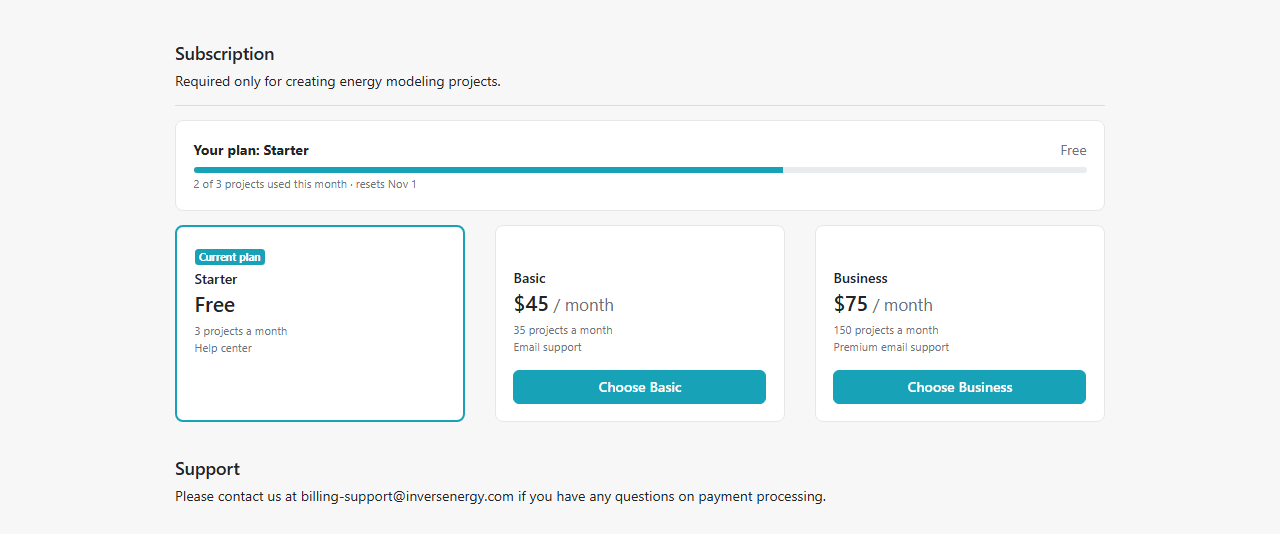
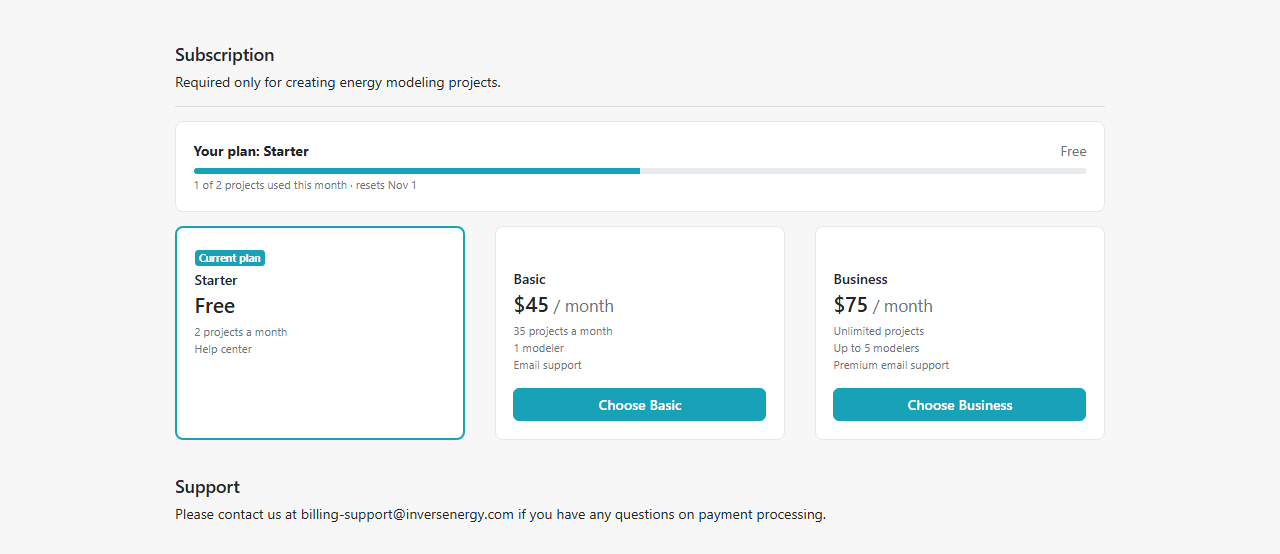
Subscription screenshots for the new plans and Business modelers
- inversehub-subscription.png retaken: Starter 2 a month, Business unlimited for up to 5 modelers
- new inversehub-business-modelers.png in Account > Modelers on a Business plan

diff --git a/account/index.html b/account/index.html
@@ -1,1 +1,1 @@
-<!DOCTYPE html><html lang="en-US"><head><meta charset="UTF-8"><meta http-equiv="X-UA-Compatible" content="IE=Edge"><link rel="stylesheet" href="/assets/css/just-the-docs-default.css"><link rel="stylesheet" href="/assets/css/just-the-docs-head-nav.css" id="jtd-head-nav-stylesheet"><style id="jtd-nav-activation"> .site-nav > ul.nav-list:first-child > li:not(:nth-child(8)) > a, .site-nav > ul.nav-list:first-child > li > ul > li > a, .site-nav > ul.nav-list:first-child > li > ul > li > ul > li > a { background-image: none; } .site-nav > ul.nav-list:not(:first-child) a, .site-nav li.external a { background-image: none; } .site-nav > ul.nav-list:first-child > li:nth-child(8) > a { font-weight: 600; text-decoration: none; }.site-nav > ul.nav-list:first-child > li:nth-child(8) > button svg { transform: rotate(-90deg); }.site-nav > ul.nav-list:first-child > li.nav-list-item:nth-child(8) > ul.nav-list { display: block; }</style><script src="/assets/js/vendor/lunr.min.js"></script> <script src="/assets/js/just-the-docs.js"></script><meta name="viewport" content="width=device-width, initial-scale=1"><link rel="icon" href="/favicon.ico" type="image/x-icon"><title>Account and subscription | InverseHub Help</title><meta name="generator" content="Jekyll v4.3.3" /><meta property="og:title" content="Account and subscription" /><meta property="og:locale" content="en_US" /><meta name="description" content="InverseHub plans and billing: the free Starter plan, the paid Basic and Business plans, subscribing, changing or canceling, and invoices." /><meta property="og:description" content="InverseHub plans and billing: the free Starter plan, the paid Basic and Business plans, subscribing, changing or canceling, and invoices." /><link rel="canonical" href="https://help.inversehub.com/account/" /><meta property="og:url" content="https://help.inversehub.com/account/" /><meta property="og:site_name" content="InverseHub Help" /><meta property="og:image" content="https://www.inversehub.com/LandingPage/images/update-01-10-2021/slider/slider-seven-1-1.jpg" /><meta property="og:type" content="website" /><meta name="twitter:card" content="summary_large_image" /><meta property="twitter:image" content="https://www.inversehub.com/LandingPage/images/update-01-10-2021/slider/slider-seven-1-1.jpg" /><meta property="twitter:title" content="Account and subscription" /> <script type="application/ld+json"> {"@context":"https://schema.org","@type":"WebPage","description":"InverseHub plans and billing: the free Starter plan, the paid Basic and Business plans, subscribing, changing or canceling, and invoices.","headline":"Account and subscription","image":"https://www.inversehub.com/LandingPage/images/update-01-10-2021/slider/slider-seven-1-1.jpg","publisher":{"@type":"Organization","logo":{"@type":"ImageObject","url":"https://help.inversehub.com/assets/images/inversehub-logo.png"}},"url":"https://help.inversehub.com/account/"}</script><link rel="preconnect" href="https://fonts.googleapis.com"><link rel="preconnect" href="https://fonts.gstatic.com" crossorigin><link href="https://fonts.googleapis.com/css2?family=Rubik:wght@300;400;500;600;700&display=swap" rel="stylesheet"><body> <a class="skip-to-main" href="#main-content">Skip to main content</a> <svg xmlns="http://www.w3.org/2000/svg" class="d-none"> <symbol id="svg-link" viewBox="0 0 24 24"><title>Link</title><svg xmlns="http://www.w3.org/2000/svg" width="24" height="24" viewBox="0 0 24 24" fill="none" stroke="currentColor" stroke-width="2" stroke-linecap="round" stroke-linejoin="round" class="feather feather-link"><path d="M10 13a5 5 0 0 0 7.54.54l3-3a5 5 0 0 0-7.07-7.07l-1.72 1.71"></path><path d="M14 11a5 5 0 0 0-7.54-.54l-3 3a5 5 0 0 0 7.07 7.07l1.71-1.71"></path> </svg> </symbol> <symbol id="svg-menu" viewBox="0 0 24 24"><title>Menu</title><svg xmlns="http://www.w3.org/2000/svg" width="24" height="24" viewBox="0 0 24 24" fill="none" stroke="currentColor" stroke-width="2" stroke-linecap="round" stroke-linejoin="round" class="feather feather-menu"><line x1="3" y1="12" x2="21" y2="12"></line><line x1="3" y1="6" x2="21" y2="6"></line><line x1="3" y1="18" x2="21" y2="18"></line> </svg> </symbol> <symbol id="svg-arrow-right" viewBox="0 0 24 24"><title>Expand</title><svg xmlns="http://www.w3.org/2000/svg" width="24" height="24" viewBox="0 0 24 24" fill="none" stroke="currentColor" stroke-width="2" stroke-linecap="round" stroke-linejoin="round" class="feather feather-chevron-right"><polyline points="9 18 15 12 9 6"></polyline> </svg> </symbol> <symbol id="svg-external-link" width="24" height="24" viewBox="0 0 24 24" fill="none" stroke="currentColor" stroke-width="2" stroke-linecap="round" stroke-linejoin="round" class="feather feather-external-link"><title id="svg-external-link-title">(external link)</title><path d="M18 13v6a2 2 0 0 1-2 2H5a2 2 0 0 1-2-2V8a2 2 0 0 1 2-2h6"></path><polyline points="15 3 21 3 21 9"></polyline><line x1="10" y1="14" x2="21" y2="3"></line> </symbol> <symbol id="svg-doc" viewBox="0 0 24 24"><title>Document</title><svg xmlns="http://www.w3.org/2000/svg" width="24" height="24" viewBox="0 0 24 24" fill="none" stroke="currentColor" stroke-width="2" stroke-linecap="round" stroke-linejoin="round" class="feather feather-file"><path d="M13 2H6a2 2 0 0 0-2 2v16a2 2 0 0 0 2 2h12a2 2 0 0 0 2-2V9z"></path><polyline points="13 2 13 9 20 9"></polyline> </svg> </symbol> <symbol id="svg-search" viewBox="0 0 24 24"><title>Search</title><svg xmlns="http://www.w3.org/2000/svg" width="24" height="24" viewBox="0 0 24 24" fill="none" stroke="currentColor" stroke-width="2" stroke-linecap="round" stroke-linejoin="round" class="feather feather-search"> <circle cx="11" cy="11" r="8"></circle><line x1="21" y1="21" x2="16.65" y2="16.65"></line> </svg> </symbol> <symbol id="svg-copy" viewBox="0 0 16 16"><title>Copy</title><svg xmlns="http://www.w3.org/2000/svg" width="16" height="16" fill="currentColor" class="bi bi-clipboard" viewBox="0 0 16 16"><path d="M4 1.5H3a2 2 0 0 0-2 2V14a2 2 0 0 0 2 2h10a2 2 0 0 0 2-2V3.5a2 2 0 0 0-2-2h-1v1h1a1 1 0 0 1 1 1V14a1 1 0 0 1-1 1H3a1 1 0 0 1-1-1V3.5a1 1 0 0 1 1-1h1v-1z"/><path d="M9.5 1a.5.5 0 0 1 .5.5v1a.5.5 0 0 1-.5.5h-3a.5.5 0 0 1-.5-.5v-1a.5.5 0 0 1 .5-.5h3zm-3-1A1.5 1.5 0 0 0 5 1.5v1A1.5 1.5 0 0 0 6.5 4h3A1.5 1.5 0 0 0 11 2.5v-1A1.5 1.5 0 0 0 9.5 0h-3z"/> </svg> </symbol> <symbol id="svg-copied" viewBox="0 0 16 16"><title>Copied</title><svg xmlns="http://www.w3.org/2000/svg" width="16" height="16" fill="currentColor" class="bi bi-clipboard-check-fill" viewBox="0 0 16 16"><path d="M6.5 0A1.5 1.5 0 0 0 5 1.5v1A1.5 1.5 0 0 0 6.5 4h3A1.5 1.5 0 0 0 11 2.5v-1A1.5 1.5 0 0 0 9.5 0h-3Zm3 1a.5.5 0 0 1 .5.5v1a.5.5 0 0 1-.5.5h-3a.5.5 0 0 1-.5-.5v-1a.5.5 0 0 1 .5-.5h3Z"/><path d="M4 1.5H3a2 2 0 0 0-2 2V14a2 2 0 0 0 2 2h10a2 2 0 0 0 2-2V3.5a2 2 0 0 0-2-2h-1v1A2.5 2.5 0 0 1 9.5 5h-3A2.5 2.5 0 0 1 4 2.5v-1Zm6.854 7.354-3 3a.5.5 0 0 1-.708 0l-1.5-1.5a.5.5 0 0 1 .708-.708L7.5 10.793l2.646-2.647a.5.5 0 0 1 .708.708Z"/> </svg> </symbol> </svg><div class="side-bar"><div class="site-header" role="banner"> <a href="/" class="site-title lh-tight"><div class="site-logo" role="img" aria-label="InverseHub Help"></div></a> <button id="menu-button" class="site-button btn-reset" aria-label="Toggle menu" aria-pressed="false"> <svg viewBox="0 0 24 24" class="icon" aria-hidden="true"><use xlink:href="#svg-menu"></use></svg> </button></div><nav aria-label="Main" id="site-nav" class="site-nav"><ul class="nav-list"><li class="nav-list-item"><a href="/" class="nav-list-link">Home</a><li class="nav-list-item"><button class="nav-list-expander btn-reset" aria-label="toggle items in Get started category" aria-pressed="false"> <svg viewBox="0 0 24 24" aria-hidden="true"><use xlink:href="#svg-arrow-right"></use></svg> </button><a href="/get-started/" class="nav-list-link">Get started</a><ul class="nav-list"><li class="nav-list-item"><a href="/get-started/set-up/" class="nav-list-link">Set up</a><li class="nav-list-item"><a href="/first-project/" class="nav-list-link">Your first project</a></ul><li class="nav-list-item"><button class="nav-list-expander btn-reset" aria-label="toggle items in Modelers category" aria-pressed="false"> <svg viewBox="0 0 24 24" aria-hidden="true"><use xlink:href="#svg-arrow-right"></use></svg> </button><a href="/modelers/" class="nav-list-link">Modelers</a><ul class="nav-list"><li class="nav-list-item"><a href="/modelers/prepare-model-output/" class="nav-list-link">Prepare your model output</a><li class="nav-list-item"><a href="/modelers/projects-and-phases/" class="nav-list-link">Projects and phases</a><li class="nav-list-item"><a href="/modelers/simreader/" class="nav-list-link">Read and upload results with SimReader</a><li class="nav-list-item"><a href="/modelers/energy-model-inputs/" class="nav-list-link">Fill in Energy Model Inputs</a><li class="nav-list-item"><a href="/modelers/compliance/" class="nav-list-link">Show compliance</a><li class="nav-list-item"><a href="/modelers/share/" class="nav-list-link">Share and handle comments</a></ul><li class="nav-list-item"><a href="/reviewers/" class="nav-list-link">Reviewers</a><li class="nav-list-item"><a href="/clients/" class="nav-list-link">Clients</a><li class="nav-list-item"><button class="nav-list-expander btn-reset" aria-label="toggle items in Reference category" aria-pressed="false"> <svg viewBox="0 0 24 24" aria-hidden="true"><use xlink:href="#svg-arrow-right"></use></svg> </button><a href="/reference/" class="nav-list-link">Reference</a><ul class="nav-list"><li class="nav-list-item"><a href="/reference/energy-codes/" class="nav-list-link">Energy codes and compliance paths</a><li class="nav-list-item"><a href="/reference/calculations/" class="nav-list-link">How results are calculated</a><li class="nav-list-item"><a href="/reference/simreader-units/" class="nav-list-link">SimReader units</a><li class="nav-list-item"><a href="/reference/glossary/" class="nav-list-link">Glossary</a></ul><li class="nav-list-item"><a href="/troubleshooting/" class="nav-list-link">Troubleshooting</a><li class="nav-list-item"><a href="/account/" class="nav-list-link">Account and subscription</a><li class="nav-list-item"><a href="/docs/faq/" class="nav-list-link">FAQ</a><li class="nav-list-item"><a href="/docs/changelog/" class="nav-list-link">What's new</a><li class="nav-list-item"><a href="/docs/technical-support/" class="nav-list-link">Contact us</a></ul><ul class="nav-list"><li class="nav-list-item external"> <a href="https://inversenergy.com" class="nav-list-link external" > InversEnergy website <svg viewBox="0 0 24 24" aria-labelledby="svg-external-link-title"><use xlink:href="#svg-external-link"></use></svg> </a></ul></nav><footer class="site-footer ih-nav-footer"><p>Questions? <a href="mailto:support@inversenergy.com">support@inversenergy.com</a></p></footer></div><div class="main" id="top"><div id="main-header" class="main-header"><div class="search" role="search"><div class="search-input-wrap"> <input type="text" id="search-input" class="search-input" tabindex="0" placeholder="Search InverseHub Help" aria-label="Search InverseHub Help" autocomplete="off"> <label for="search-input" class="search-label"><svg viewBox="0 0 24 24" class="search-icon"><use xlink:href="#svg-search"></use></svg></label></div><div id="search-results" class="search-results"></div></div><nav aria-label="Auxiliary" class="aux-nav"><ul class="aux-nav-list"><li class="aux-nav-list-item"> <a href="https://www.inversehub.com" class="site-button" > Open InverseHub </a></ul></nav></div><div class="main-content-wrap"><div id="main-content" class="main-content"><main><h1 class="no_toc" id="account-and-subscription"> <a href="#account-and-subscription" class="anchor-heading" aria-labelledby="account-and-subscription"><svg viewBox="0 0 16 16" aria-hidden="true"><use xlink:href="#svg-link"></use></svg></a> Account and subscription</h1><p class="fs-6 fw-300">A plan sets how many new projects you can create. Everything else (uploading, editing, sharing and reviewing) works on every plan.</p><details open=""> <summary class="text-delta">On this page</summary><ul id="markdown-toc"><li><a href="#plans" id="markdown-toc-plans">Plans</a><li><a href="#subscribe-or-change-your-plan" id="markdown-toc-subscribe-or-change-your-plan">Subscribe or change your plan</a><li><a href="#modelers-on-a-business-plan" id="markdown-toc-modelers-on-a-business-plan">Modelers on a Business plan</a><li><a href="#cancel" id="markdown-toc-cancel">Cancel</a><li><a href="#invoices" id="markdown-toc-invoices">Invoices</a><li><a href="#refunds" id="markdown-toc-refunds">Refunds</a><li><a href="#account-settings" id="markdown-toc-account-settings">Account settings</a></ul></details><hr /><h2 id="plans"> <a href="#plans" class="anchor-heading" aria-labelledby="plans"><svg viewBox="0 0 16 16" aria-hidden="true"><use xlink:href="#svg-link"></use></svg></a> Plans</h2><div class="table-wrapper"><table><thead><tr><th style="text-align: left">Plan<th style="text-align: left">Price<th style="text-align: left">New projects<th style="text-align: left">Support<tbody><tr><td style="text-align: left"><strong>Starter</strong><td style="text-align: left">Free<td style="text-align: left">2 a month<td style="text-align: left">Help center<tr><td style="text-align: left"><strong>Basic</strong><td style="text-align: left">$45 a month<td style="text-align: left">35 each billing period<td style="text-align: left">Email support<tr><td style="text-align: left"><strong>Business</strong><td style="text-align: left">$75 a month<td style="text-align: left">Unlimited, for up to 5 modelers<td style="text-align: left">Premium email support</table></div><p>Prices include tax. Paid plans renew automatically every month. The Starter count resets on the first of each month; a paid plan’s count resets with each billing period. <strong>New Project</strong> shows how many you have left.</p><p><img src="/images/inversehub-subscription.png" alt="The Subscription page with the Starter, Basic and Business plans and the projects used this month" /></p><h2 id="subscribe-or-change-your-plan"> <a href="#subscribe-or-change-your-plan" class="anchor-heading" aria-labelledby="subscribe-or-change-your-plan"><svg viewBox="0 0 16 16" aria-hidden="true"><use xlink:href="#svg-link"></use></svg></a> Subscribe or change your plan</h2><p>Open the menu under your name (top right) and select <strong>Subscription</strong>.</p><ul><li><strong>Subscribe</strong>: choose <strong>Basic</strong> or <strong>Business</strong> and enter your payment details.<li><strong>Upgrade</strong>: the new plan starts now. You pay the difference for the rest of the billing period.<li><strong>Downgrade</strong>: the change takes effect on your next billing date. You keep your current plan until then. To undo a scheduled downgrade, choose your current plan again.<li><strong>Update Payment Method</strong>: change the card used for renewals. If a payment failed, updating the card also retries it.</ul><h2 id="modelers-on-a-business-plan"> <a href="#modelers-on-a-business-plan" class="anchor-heading" aria-labelledby="modelers-on-a-business-plan"><svg viewBox="0 0 16 16" aria-hidden="true"><use xlink:href="#svg-link"></use></svg></a> Modelers on a Business plan</h2><p>A Business plan covers you and up to 4 other modelers. Only the plan is shared: each modeler keeps their own projects and clients.</p><p>To add a modeler, open <strong>Subscription</strong>, enter their InverseHub email under <strong>Modelers on your plan</strong> and select <strong>Add Modeler</strong>. They need an InverseHub account first; a free one is enough. If they pay for a plan of their own, they cancel it first, and you can add them once it ends. We email them when you add or remove them.</p><ul><li><strong>Remove</strong>: the modeler moves to Starter at once. Their projects and clients stay theirs.<li>If you cancel your plan or switch to Basic, the other modelers move to Starter on the same date.</ul><p>If you’re on someone else’s Business plan, your <strong>Subscription</strong> page shows who pays for it. To choose your own plan, select <strong>Leave Plan</strong> first; you move to Starter.</p><h2 id="cancel"> <a href="#cancel" class="anchor-heading" aria-labelledby="cancel"><svg viewBox="0 0 16 16" aria-hidden="true"><use xlink:href="#svg-link"></use></svg></a> Cancel</h2><p>Select <strong>Cancel Subscription</strong>. Your plan stays active until the end of the period you paid for; then your account moves to Starter.</p><ul><li>You keep all your projects, and they stay private.<li>You can still open, edit and share them, upload new results and receive comments.<li>On Starter you can create 2 new projects a month.<li>On Business, the other modelers on your plan move to Starter then too.</ul><p>You can subscribe again at any time.</p><h2 id="invoices"> <a href="#invoices" class="anchor-heading" aria-labelledby="invoices"><svg viewBox="0 0 16 16" aria-hidden="true"><use xlink:href="#svg-link"></use></svg></a> Invoices</h2><p>We email you an invoice after each payment: your first payment, every renewal, and the difference charged when you upgrade. If a renewal payment doesn’t go through, we email you as well; update your payment method on the <strong>Subscription</strong> page to keep your plan.</p><p>All your payments are listed under <strong>Billing history</strong> on the <strong>Subscription</strong> page. Select <strong>View</strong> to open an invoice and print it, or <strong>PDF</strong> to download it. For questions about a payment, reply to the invoice email or write to <a href="mailto:billing-support@inversenergy.com">billing-support@inversenergy.com</a>.</p><h2 id="refunds"> <a href="#refunds" class="anchor-heading" aria-labelledby="refunds"><svg viewBox="0 0 16 16" aria-hidden="true"><use xlink:href="#svg-link"></use></svg></a> Refunds</h2><p>We offer a 30-day refund policy. After that, send us an explanation of your circumstances and we’ll consider your request on an individual basis. Please send all requests to <a href="mailto:billing-support@inversenergy.com">billing-support@inversenergy.com</a>.</p><h2 id="account-settings"> <a href="#account-settings" class="anchor-heading" aria-labelledby="account-settings"><svg viewBox="0 0 16 16" aria-hidden="true"><use xlink:href="#svg-link"></use></svg></a> Account settings</h2><p>Open the menu under your name (top right) and select <strong>Account settings</strong>.</p><ul><li><strong>Profile</strong>: your picture, your name, credential and title, and your company. Your name, credential and title appear on your PDF reports; the preview on the page shows how. A picture can be a PNG or JPG up to 2 MB; it’s cropped to a square.<li><strong>Email</strong>: your sign-in email and whether it’s verified. It can’t be changed at the moment; if you need to use a different address, email <a href="mailto:support@inversenergy.com">support@inversenergy.com</a>.<li><strong>Password</strong>: enter your current password and the new one. If you’ve forgotten the current one, select <strong>Forgot your current password?</strong> to reset it by email.<li><strong>Subscription</strong>: opens the Subscription page.<li><strong>Your data</strong>: download the personal details stored in your account, or delete your account. Cancel any paid subscription first.</ul></main><hr><footer><p><a href="#top" id="back-to-top">Back to top</a></p><div class="ih-footer"><div class="ih-footer-brand"><strong>Inverse</strong>Hub <span>by InversEnergy, Inc.</span></div><div class="ih-footer-links"> <a href="https://www.inversehub.com">inversehub.com</a> <a href="/docs/technical-support/">Contact us</a> <a href="https://www.inversehub.com/Home/Privacy">Privacy Policy</a> <a href="https://www.inversehub.com/Home/TermOfUse">Terms of Service</a></div><p>&copy; 2017&ndash;2026 InversEnergy, Inc. &middot; 11 Nathan Pratt Drive, Concord, MA</p></div><div class="d-flex mt-2"><p class="text-small text-grey-dk-000 mb-0 mr-2"> Page last modified: <span class="d-inline-block">Oct 29 2026 at 12:00 AM</span>.</p></div></footer></div></div><div class="search-overlay"></div></div><script type="module"> import mermaid from 'https://cdn.jsdelivr.net/npm/mermaid@10.6.1/dist/mermaid.esm.min.mjs'; var config = {} ; mermaid.initialize(config); mermaid.run({ querySelector: '.language-mermaid', }); </script>
+<!DOCTYPE html><html lang="en-US"><head><meta charset="UTF-8"><meta http-equiv="X-UA-Compatible" content="IE=Edge"><link rel="stylesheet" href="/assets/css/just-the-docs-default.css"><link rel="stylesheet" href="/assets/css/just-the-docs-head-nav.css" id="jtd-head-nav-stylesheet"><style id="jtd-nav-activation"> .site-nav > ul.nav-list:first-child > li:not(:nth-child(8)) > a, .site-nav > ul.nav-list:first-child > li > ul > li > a, .site-nav > ul.nav-list:first-child > li > ul > li > ul > li > a { background-image: none; } .site-nav > ul.nav-list:not(:first-child) a, .site-nav li.external a { background-image: none; } .site-nav > ul.nav-list:first-child > li:nth-child(8) > a { font-weight: 600; text-decoration: none; }.site-nav > ul.nav-list:first-child > li:nth-child(8) > button svg { transform: rotate(-90deg); }.site-nav > ul.nav-list:first-child > li.nav-list-item:nth-child(8) > ul.nav-list { display: block; }</style><script src="/assets/js/vendor/lunr.min.js"></script> <script src="/assets/js/just-the-docs.js"></script><meta name="viewport" content="width=device-width, initial-scale=1"><link rel="icon" href="/favicon.ico" type="image/x-icon"><title>Account and subscription | InverseHub Help</title><meta name="generator" content="Jekyll v4.3.3" /><meta property="og:title" content="Account and subscription" /><meta property="og:locale" content="en_US" /><meta name="description" content="InverseHub plans and billing: the free Starter plan, the paid Basic and Business plans, subscribing, changing or canceling, and invoices." /><meta property="og:description" content="InverseHub plans and billing: the free Starter plan, the paid Basic and Business plans, subscribing, changing or canceling, and invoices." /><link rel="canonical" href="https://help.inversehub.com/account/" /><meta property="og:url" content="https://help.inversehub.com/account/" /><meta property="og:site_name" content="InverseHub Help" /><meta property="og:image" content="https://www.inversehub.com/LandingPage/images/update-01-10-2021/slider/slider-seven-1-1.jpg" /><meta property="og:type" content="website" /><meta name="twitter:card" content="summary_large_image" /><meta property="twitter:image" content="https://www.inversehub.com/LandingPage/images/update-01-10-2021/slider/slider-seven-1-1.jpg" /><meta property="twitter:title" content="Account and subscription" /> <script type="application/ld+json"> {"@context":"https://schema.org","@type":"WebPage","description":"InverseHub plans and billing: the free Starter plan, the paid Basic and Business plans, subscribing, changing or canceling, and invoices.","headline":"Account and subscription","image":"https://www.inversehub.com/LandingPage/images/update-01-10-2021/slider/slider-seven-1-1.jpg","publisher":{"@type":"Organization","logo":{"@type":"ImageObject","url":"https://help.inversehub.com/assets/images/inversehub-logo.png"}},"url":"https://help.inversehub.com/account/"}</script><link rel="preconnect" href="https://fonts.googleapis.com"><link rel="preconnect" href="https://fonts.gstatic.com" crossorigin><link href="https://fonts.googleapis.com/css2?family=Rubik:wght@300;400;500;600;700&display=swap" rel="stylesheet"><body> <a class="skip-to-main" href="#main-content">Skip to main content</a> <svg xmlns="http://www.w3.org/2000/svg" class="d-none"> <symbol id="svg-link" viewBox="0 0 24 24"><title>Link</title><svg xmlns="http://www.w3.org/2000/svg" width="24" height="24" viewBox="0 0 24 24" fill="none" stroke="currentColor" stroke-width="2" stroke-linecap="round" stroke-linejoin="round" class="feather feather-link"><path d="M10 13a5 5 0 0 0 7.54.54l3-3a5 5 0 0 0-7.07-7.07l-1.72 1.71"></path><path d="M14 11a5 5 0 0 0-7.54-.54l-3 3a5 5 0 0 0 7.07 7.07l1.71-1.71"></path> </svg> </symbol> <symbol id="svg-menu" viewBox="0 0 24 24"><title>Menu</title><svg xmlns="http://www.w3.org/2000/svg" width="24" height="24" viewBox="0 0 24 24" fill="none" stroke="currentColor" stroke-width="2" stroke-linecap="round" stroke-linejoin="round" class="feather feather-menu"><line x1="3" y1="12" x2="21" y2="12"></line><line x1="3" y1="6" x2="21" y2="6"></line><line x1="3" y1="18" x2="21" y2="18"></line> </svg> </symbol> <symbol id="svg-arrow-right" viewBox="0 0 24 24"><title>Expand</title><svg xmlns="http://www.w3.org/2000/svg" width="24" height="24" viewBox="0 0 24 24" fill="none" stroke="currentColor" stroke-width="2" stroke-linecap="round" stroke-linejoin="round" class="feather feather-chevron-right"><polyline points="9 18 15 12 9 6"></polyline> </svg> </symbol> <symbol id="svg-external-link" width="24" height="24" viewBox="0 0 24 24" fill="none" stroke="currentColor" stroke-width="2" stroke-linecap="round" stroke-linejoin="round" class="feather feather-external-link"><title id="svg-external-link-title">(external link)</title><path d="M18 13v6a2 2 0 0 1-2 2H5a2 2 0 0 1-2-2V8a2 2 0 0 1 2-2h6"></path><polyline points="15 3 21 3 21 9"></polyline><line x1="10" y1="14" x2="21" y2="3"></line> </symbol> <symbol id="svg-doc" viewBox="0 0 24 24"><title>Document</title><svg xmlns="http://www.w3.org/2000/svg" width="24" height="24" viewBox="0 0 24 24" fill="none" stroke="currentColor" stroke-width="2" stroke-linecap="round" stroke-linejoin="round" class="feather feather-file"><path d="M13 2H6a2 2 0 0 0-2 2v16a2 2 0 0 0 2 2h12a2 2 0 0 0 2-2V9z"></path><polyline points="13 2 13 9 20 9"></polyline> </svg> </symbol> <symbol id="svg-search" viewBox="0 0 24 24"><title>Search</title><svg xmlns="http://www.w3.org/2000/svg" width="24" height="24" viewBox="0 0 24 24" fill="none" stroke="currentColor" stroke-width="2" stroke-linecap="round" stroke-linejoin="round" class="feather feather-search"> <circle cx="11" cy="11" r="8"></circle><line x1="21" y1="21" x2="16.65" y2="16.65"></line> </svg> </symbol> <symbol id="svg-copy" viewBox="0 0 16 16"><title>Copy</title><svg xmlns="http://www.w3.org/2000/svg" width="16" height="16" fill="currentColor" class="bi bi-clipboard" viewBox="0 0 16 16"><path d="M4 1.5H3a2 2 0 0 0-2 2V14a2 2 0 0 0 2 2h10a2 2 0 0 0 2-2V3.5a2 2 0 0 0-2-2h-1v1h1a1 1 0 0 1 1 1V14a1 1 0 0 1-1 1H3a1 1 0 0 1-1-1V3.5a1 1 0 0 1 1-1h1v-1z"/><path d="M9.5 1a.5.5 0 0 1 .5.5v1a.5.5 0 0 1-.5.5h-3a.5.5 0 0 1-.5-.5v-1a.5.5 0 0 1 .5-.5h3zm-3-1A1.5 1.5 0 0 0 5 1.5v1A1.5 1.5 0 0 0 6.5 4h3A1.5 1.5 0 0 0 11 2.5v-1A1.5 1.5 0 0 0 9.5 0h-3z"/> </svg> </symbol> <symbol id="svg-copied" viewBox="0 0 16 16"><title>Copied</title><svg xmlns="http://www.w3.org/2000/svg" width="16" height="16" fill="currentColor" class="bi bi-clipboard-check-fill" viewBox="0 0 16 16"><path d="M6.5 0A1.5 1.5 0 0 0 5 1.5v1A1.5 1.5 0 0 0 6.5 4h3A1.5 1.5 0 0 0 11 2.5v-1A1.5 1.5 0 0 0 9.5 0h-3Zm3 1a.5.5 0 0 1 .5.5v1a.5.5 0 0 1-.5.5h-3a.5.5 0 0 1-.5-.5v-1a.5.5 0 0 1 .5-.5h3Z"/><path d="M4 1.5H3a2 2 0 0 0-2 2V14a2 2 0 0 0 2 2h10a2 2 0 0 0 2-2V3.5a2 2 0 0 0-2-2h-1v1A2.5 2.5 0 0 1 9.5 5h-3A2.5 2.5 0 0 1 4 2.5v-1Zm6.854 7.354-3 3a.5.5 0 0 1-.708 0l-1.5-1.5a.5.5 0 0 1 .708-.708L7.5 10.793l2.646-2.647a.5.5 0 0 1 .708.708Z"/> </svg> </symbol> </svg><div class="side-bar"><div class="site-header" role="banner"> <a href="/" class="site-title lh-tight"><div class="site-logo" role="img" aria-label="InverseHub Help"></div></a> <button id="menu-button" class="site-button btn-reset" aria-label="Toggle menu" aria-pressed="false"> <svg viewBox="0 0 24 24" class="icon" aria-hidden="true"><use xlink:href="#svg-menu"></use></svg> </button></div><nav aria-label="Main" id="site-nav" class="site-nav"><ul class="nav-list"><li class="nav-list-item"><a href="/" class="nav-list-link">Home</a><li class="nav-list-item"><button class="nav-list-expander btn-reset" aria-label="toggle items in Get started category" aria-pressed="false"> <svg viewBox="0 0 24 24" aria-hidden="true"><use xlink:href="#svg-arrow-right"></use></svg> </button><a href="/get-started/" class="nav-list-link">Get started</a><ul class="nav-list"><li class="nav-list-item"><a href="/get-started/set-up/" class="nav-list-link">Set up</a><li class="nav-list-item"><a href="/first-project/" class="nav-list-link">Your first project</a></ul><li class="nav-list-item"><button class="nav-list-expander btn-reset" aria-label="toggle items in Modelers category" aria-pressed="false"> <svg viewBox="0 0 24 24" aria-hidden="true"><use xlink:href="#svg-arrow-right"></use></svg> </button><a href="/modelers/" class="nav-list-link">Modelers</a><ul class="nav-list"><li class="nav-list-item"><a href="/modelers/prepare-model-output/" class="nav-list-link">Prepare your model output</a><li class="nav-list-item"><a href="/modelers/projects-and-phases/" class="nav-list-link">Projects and phases</a><li class="nav-list-item"><a href="/modelers/simreader/" class="nav-list-link">Read and upload results with SimReader</a><li class="nav-list-item"><a href="/modelers/energy-model-inputs/" class="nav-list-link">Fill in Energy Model Inputs</a><li class="nav-list-item"><a href="/modelers/compliance/" class="nav-list-link">Show compliance</a><li class="nav-list-item"><a href="/modelers/share/" class="nav-list-link">Share and handle comments</a></ul><li class="nav-list-item"><a href="/reviewers/" class="nav-list-link">Reviewers</a><li class="nav-list-item"><a href="/clients/" class="nav-list-link">Clients</a><li class="nav-list-item"><button class="nav-list-expander btn-reset" aria-label="toggle items in Reference category" aria-pressed="false"> <svg viewBox="0 0 24 24" aria-hidden="true"><use xlink:href="#svg-arrow-right"></use></svg> </button><a href="/reference/" class="nav-list-link">Reference</a><ul class="nav-list"><li class="nav-list-item"><a href="/reference/energy-codes/" class="nav-list-link">Energy codes and compliance paths</a><li class="nav-list-item"><a href="/reference/calculations/" class="nav-list-link">How results are calculated</a><li class="nav-list-item"><a href="/reference/simreader-units/" class="nav-list-link">SimReader units</a><li class="nav-list-item"><a href="/reference/glossary/" class="nav-list-link">Glossary</a></ul><li class="nav-list-item"><a href="/troubleshooting/" class="nav-list-link">Troubleshooting</a><li class="nav-list-item"><a href="/account/" class="nav-list-link">Account and subscription</a><li class="nav-list-item"><a href="/docs/faq/" class="nav-list-link">FAQ</a><li class="nav-list-item"><a href="/docs/changelog/" class="nav-list-link">What's new</a><li class="nav-list-item"><a href="/docs/technical-support/" class="nav-list-link">Contact us</a></ul><ul class="nav-list"><li class="nav-list-item external"> <a href="https://inversenergy.com" class="nav-list-link external" > InversEnergy website <svg viewBox="0 0 24 24" aria-labelledby="svg-external-link-title"><use xlink:href="#svg-external-link"></use></svg> </a></ul></nav><footer class="site-footer ih-nav-footer"><p>Questions? <a href="mailto:support@inversenergy.com">support@inversenergy.com</a></p></footer></div><div class="main" id="top"><div id="main-header" class="main-header"><div class="search" role="search"><div class="search-input-wrap"> <input type="text" id="search-input" class="search-input" tabindex="0" placeholder="Search InverseHub Help" aria-label="Search InverseHub Help" autocomplete="off"> <label for="search-input" class="search-label"><svg viewBox="0 0 24 24" class="search-icon"><use xlink:href="#svg-search"></use></svg></label></div><div id="search-results" class="search-results"></div></div><nav aria-label="Auxiliary" class="aux-nav"><ul class="aux-nav-list"><li class="aux-nav-list-item"> <a href="https://www.inversehub.com" class="site-button" > Open InverseHub </a></ul></nav></div><div class="main-content-wrap"><div id="main-content" class="main-content"><main><h1 class="no_toc" id="account-and-subscription"> <a href="#account-and-subscription" class="anchor-heading" aria-labelledby="account-and-subscription"><svg viewBox="0 0 16 16" aria-hidden="true"><use xlink:href="#svg-link"></use></svg></a> Account and subscription</h1><p class="fs-6 fw-300">A plan sets how many new projects you can create. Everything else (uploading, editing, sharing and reviewing) works on every plan.</p><details open=""> <summary class="text-delta">On this page</summary><ul id="markdown-toc"><li><a href="#plans" id="markdown-toc-plans">Plans</a><li><a href="#subscribe-or-change-your-plan" id="markdown-toc-subscribe-or-change-your-plan">Subscribe or change your plan</a><li><a href="#modelers-on-a-business-plan" id="markdown-toc-modelers-on-a-business-plan">Modelers on a Business plan</a><li><a href="#cancel" id="markdown-toc-cancel">Cancel</a><li><a href="#invoices" id="markdown-toc-invoices">Invoices</a><li><a href="#refunds" id="markdown-toc-refunds">Refunds</a><li><a href="#account-settings" id="markdown-toc-account-settings">Account settings</a></ul></details><hr /><h2 id="plans"> <a href="#plans" class="anchor-heading" aria-labelledby="plans"><svg viewBox="0 0 16 16" aria-hidden="true"><use xlink:href="#svg-link"></use></svg></a> Plans</h2><div class="table-wrapper"><table><thead><tr><th style="text-align: left">Plan<th style="text-align: left">Price<th style="text-align: left">New projects<th style="text-align: left">Support<tbody><tr><td style="text-align: left"><strong>Starter</strong><td style="text-align: left">Free<td style="text-align: left">2 a month<td style="text-align: left">Help center<tr><td style="text-align: left"><strong>Basic</strong><td style="text-align: left">$45 a month<td style="text-align: left">35 each billing period<td style="text-align: left">Email support<tr><td style="text-align: left"><strong>Business</strong><td style="text-align: left">$75 a month<td style="text-align: left">Unlimited, for up to 5 modelers<td style="text-align: left">Premium email support</table></div><p>Prices include tax. Paid plans renew automatically every month. The Starter count resets on the first of each month; a paid plan’s count resets with each billing period. <strong>New Project</strong> shows how many you have left.</p><p><img src="/images/inversehub-subscription.png" alt="The Subscription page with the Starter, Basic and Business plans and the projects used this month" /></p><h2 id="subscribe-or-change-your-plan"> <a href="#subscribe-or-change-your-plan" class="anchor-heading" aria-labelledby="subscribe-or-change-your-plan"><svg viewBox="0 0 16 16" aria-hidden="true"><use xlink:href="#svg-link"></use></svg></a> Subscribe or change your plan</h2><p>Open the menu under your name (top right) and select <strong>Subscription</strong>.</p><ul><li><strong>Subscribe</strong>: choose <strong>Basic</strong> or <strong>Business</strong> and enter your payment details.<li><strong>Upgrade</strong>: the new plan starts now. You pay the difference for the rest of the billing period.<li><strong>Downgrade</strong>: the change takes effect on your next billing date. You keep your current plan until then. To undo a scheduled downgrade, choose your current plan again.<li><strong>Update Payment Method</strong>: change the card used for renewals. If a payment failed, updating the card also retries it.</ul><h2 id="modelers-on-a-business-plan"> <a href="#modelers-on-a-business-plan" class="anchor-heading" aria-labelledby="modelers-on-a-business-plan"><svg viewBox="0 0 16 16" aria-hidden="true"><use xlink:href="#svg-link"></use></svg></a> Modelers on a Business plan</h2><p>A Business plan covers you and up to 4 other modelers. Only the plan is shared: each modeler keeps their own projects and clients.</p><p>To add a modeler, open <strong>Subscription</strong>, enter their InverseHub email under <strong>Modelers on your plan</strong> and select <strong>Add Modeler</strong>. They need an InverseHub account first; a free one is enough. If they pay for a plan of their own, they cancel it first, and you can add them once it ends. We email them when you add or remove them.</p><p><img src="/images/inversehub-business-modelers.png" alt="Modelers on your plan on the Subscription page: the owner, two modelers with Remove, and the email box with Add Modeler" /></p><ul><li><strong>Remove</strong>: the modeler moves to Starter at once. Their projects and clients stay theirs.<li>If you cancel your plan or switch to Basic, the other modelers move to Starter on the same date.</ul><p>If you’re on someone else’s Business plan, your <strong>Subscription</strong> page shows who pays for it. To choose your own plan, select <strong>Leave Plan</strong> first; you move to Starter.</p><h2 id="cancel"> <a href="#cancel" class="anchor-heading" aria-labelledby="cancel"><svg viewBox="0 0 16 16" aria-hidden="true"><use xlink:href="#svg-link"></use></svg></a> Cancel</h2><p>Select <strong>Cancel Subscription</strong>. Your plan stays active until the end of the period you paid for; then your account moves to Starter.</p><ul><li>You keep all your projects, and they stay private.<li>You can still open, edit and share them, upload new results and receive comments.<li>On Starter you can create 2 new projects a month.<li>On Business, the other modelers on your plan move to Starter then too.</ul><p>You can subscribe again at any time.</p><h2 id="invoices"> <a href="#invoices" class="anchor-heading" aria-labelledby="invoices"><svg viewBox="0 0 16 16" aria-hidden="true"><use xlink:href="#svg-link"></use></svg></a> Invoices</h2><p>We email you an invoice after each payment: your first payment, every renewal, and the difference charged when you upgrade. If a renewal payment doesn’t go through, we email you as well; update your payment method on the <strong>Subscription</strong> page to keep your plan.</p><p>All your payments are listed under <strong>Billing history</strong> on the <strong>Subscription</strong> page. Select <strong>View</strong> to open an invoice and print it, or <strong>PDF</strong> to download it. For questions about a payment, reply to the invoice email or write to <a href="mailto:billing-support@inversenergy.com">billing-support@inversenergy.com</a>.</p><h2 id="refunds"> <a href="#refunds" class="anchor-heading" aria-labelledby="refunds"><svg viewBox="0 0 16 16" aria-hidden="true"><use xlink:href="#svg-link"></use></svg></a> Refunds</h2><p>We offer a 30-day refund policy. After that, send us an explanation of your circumstances and we’ll consider your request on an individual basis. Please send all requests to <a href="mailto:billing-support@inversenergy.com">billing-support@inversenergy.com</a>.</p><h2 id="account-settings"> <a href="#account-settings" class="anchor-heading" aria-labelledby="account-settings"><svg viewBox="0 0 16 16" aria-hidden="true"><use xlink:href="#svg-link"></use></svg></a> Account settings</h2><p>Open the menu under your name (top right) and select <strong>Account settings</strong>.</p><ul><li><strong>Profile</strong>: your picture, your name, credential and title, and your company. Your name, credential and title appear on your PDF reports; the preview on the page shows how. A picture can be a PNG or JPG up to 2 MB; it’s cropped to a square.<li><strong>Email</strong>: your sign-in email and whether it’s verified. It can’t be changed at the moment; if you need to use a different address, email <a href="mailto:support@inversenergy.com">support@inversenergy.com</a>.<li><strong>Password</strong>: enter your current password and the new one. If you’ve forgotten the current one, select <strong>Forgot your current password?</strong> to reset it by email.<li><strong>Subscription</strong>: opens the Subscription page.<li><strong>Your data</strong>: download the personal details stored in your account, or delete your account. Cancel any paid subscription first.</ul></main><hr><footer><p><a href="#top" id="back-to-top">Back to top</a></p><div class="ih-footer"><div class="ih-footer-brand"><strong>Inverse</strong>Hub <span>by InversEnergy, Inc.</span></div><div class="ih-footer-links"> <a href="https://www.inversehub.com">inversehub.com</a> <a href="/docs/technical-support/">Contact us</a> <a href="https://www.inversehub.com/Home/Privacy">Privacy Policy</a> <a href="https://www.inversehub.com/Home/TermOfUse">Terms of Service</a></div><p>&copy; 2017&ndash;2026 InversEnergy, Inc. &middot; 11 Nathan Pratt Drive, Concord, MA</p></div><div class="d-flex mt-2"><p class="text-small text-grey-dk-000 mb-0 mr-2"> Page last modified: <span class="d-inline-block">Oct 29 2026 at 12:00 AM</span>.</p></div></footer></div></div><div class="search-overlay"></div></div><script type="module"> import mermaid from 'https://cdn.jsdelivr.net/npm/mermaid@10.6.1/dist/mermaid.esm.min.mjs'; var config = {} ; mermaid.initialize(config); mermaid.run({ querySelector: '.language-mermaid', }); </script>
